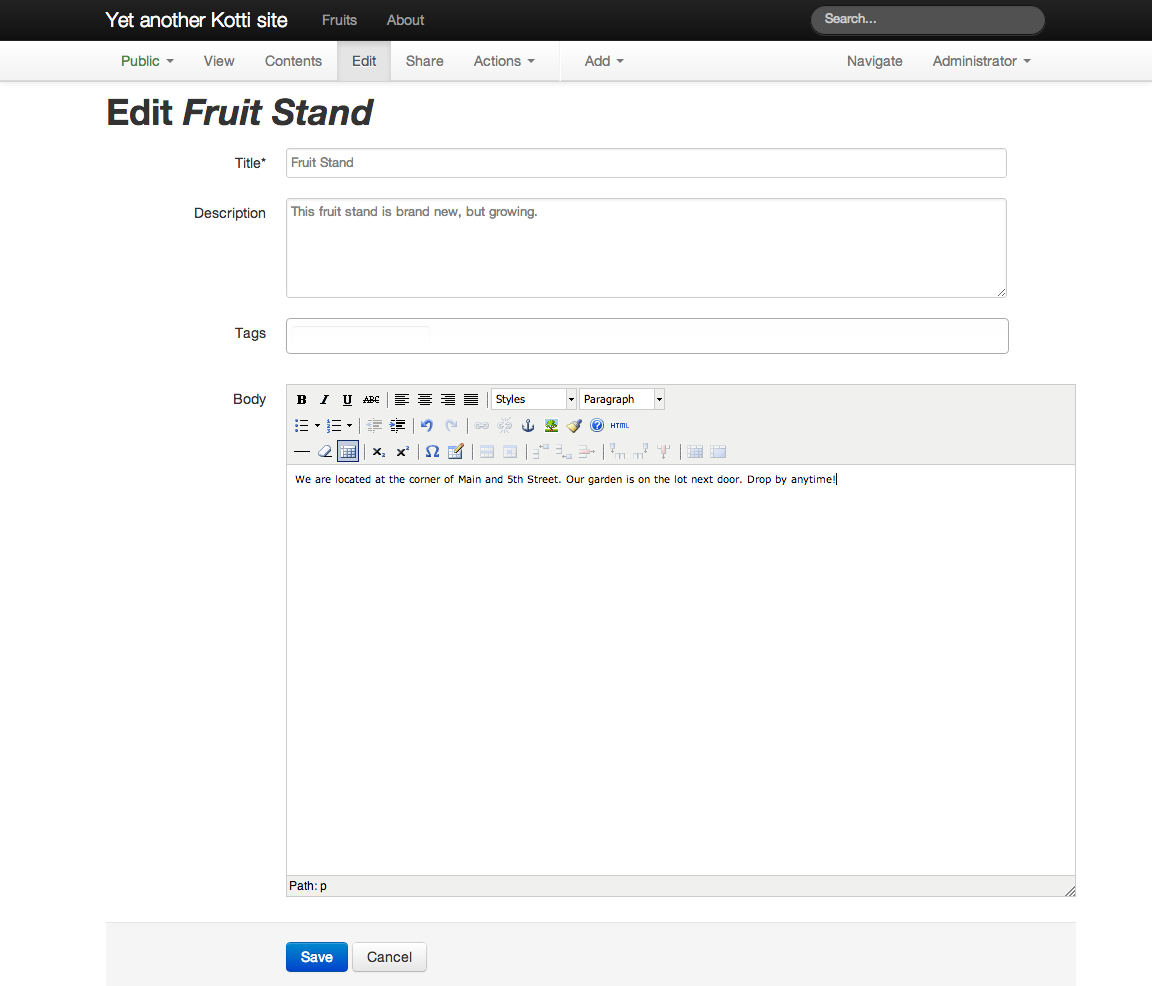
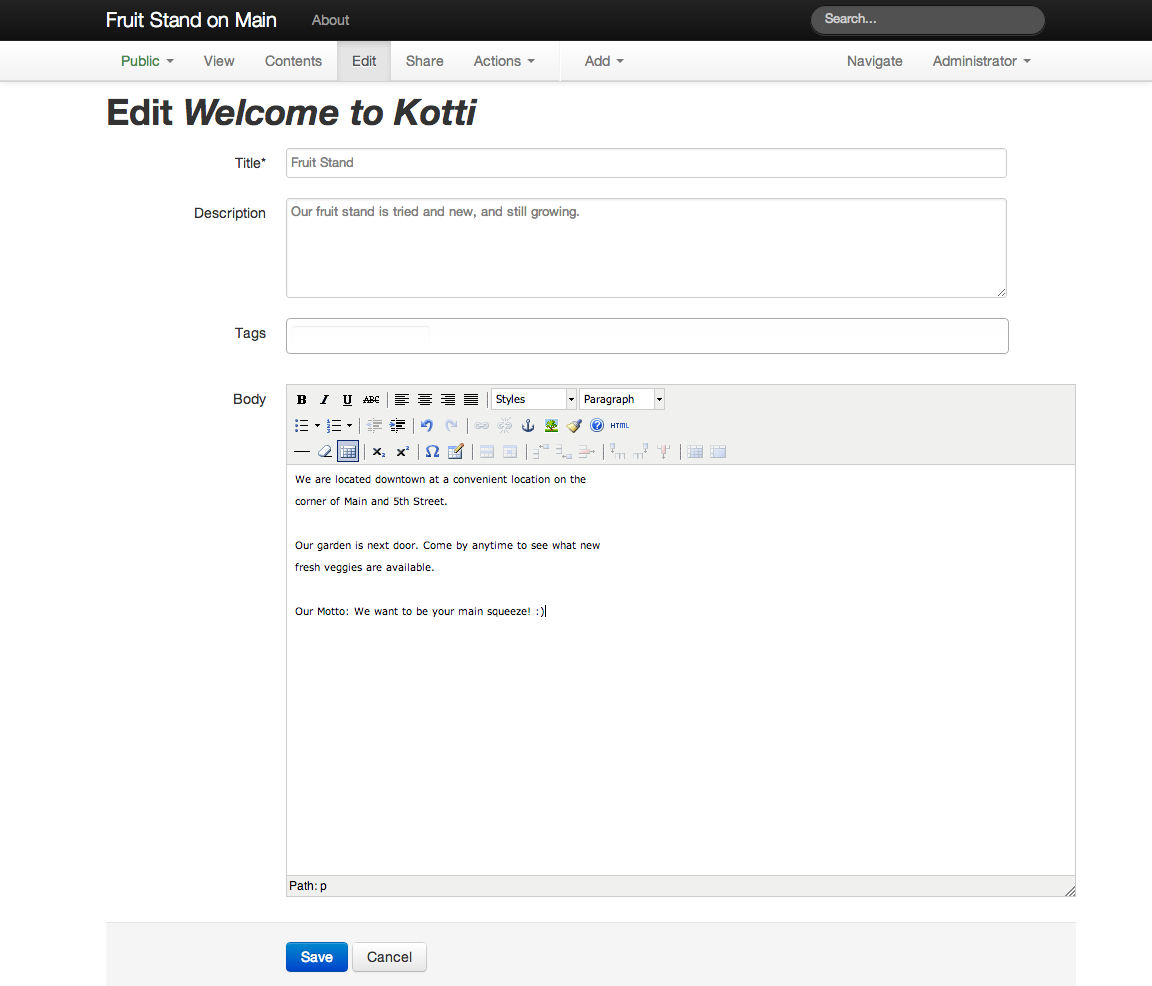
Added info and better formatting to new content. Now have site title set in app.ini.

diff --git a/scripts/kotti_capture.py b/scripts/kotti_capture.py
@@ -652,18 +652,37 @@ delete_about_document(browser)
 # This will capture: add_about_actions_menu
 #                    add_about_save
 #                    add_about_save_flash_message
+about_body = """We have many fruits available. Choose the fruit you want.
+Our normal schedule:
+
+Monday - Friday, 8 AM - 6 PM
+Saturday, 7 AM - 2 PM
+               
+Address:
+
+Fruit Stand on Main
+123 Main Street
+Somewhere, SW 01010
+
+Email: fruits@example.com
+
+Phone: +1-509-555-0100"""
 add_about_document(browser, "About",
-                   "This website is for a fruit stand.",
-                   "We have many fruits available. Choose the fruit you want.")
+                   "This website is for Fruit Stand on Main, founded 1985.",
+                   about_body)
 
 browser.find_element_by_class_name('brand').click()
 
-front_page_body = ("We are located at the corner of Main and 5th Street. Our "
-                   "garden is on the lot next door. Drop by anytime!")
+front_page_body = """We are located downtown at a convenient location on the
+corner of Main and 5th Street.
+                    
+Our garden is next door. Come by anytime to see what new
+fresh veggies are available.
 
+Our Motto: We want to be your main squeeze! :)"""
 edit_front_page(browser,
                 "Fruit Stand",
-                "This fruit stand is brand new, but growing.",
+                "Our fruit stand is tried and new, and still growing.",
                 front_page_body)
 
 # Now that we are logged in,

diff --git a/docs/introduction/overview.rst b/docs/introduction/overview.rst
@@ -44,15 +44,17 @@ in the context of the web. Documents contain text and may include images,
 files, and links to other documents.  Kotti's design makes linking documents to
 one another easy.
 
-A fresh default Kotti website looks simple enough:
+For the website associated with this user manual we will add content for a
+fruit stand. Our fresh default Kotti website looks simple enough:
 
 .. Image:: ../images/not_logged_in.png
 
-There is a header area with a toolbar, which has the site "brand" on the left
-and a Search box on the right.  There is a Welcome statement, instructions for
-logging in, configuring the site, viewing a list of available add-ons, and
-viewing documentation. The amusing footer is a signature of a software system
-called Pyramid that Kotti uses as a foundation.
+You see where the site has already been given a proper "Fruit Stand" title, in
+the header area at the left of the toolbar, which has a Search box on the
+right.  There is a Welcome statement, instructions for logging in, configuring
+the site, viewing a list of available add-ons, and viewing documentation. The
+amusing footer is a signature of a software system called Pyramid that Kotti
+uses as a foundation.
 
-All of this will change when the website is configured and initial content is
-added.
+We have the site title already, but the rest will change when we add content
+for the fruit stand.

diff --git a/docs/introduction/your_new_site.rst b/docs/introduction/your_new_site.rst
@@ -11,13 +11,11 @@ organization where you work on just one part of a large site, but as we go
 through this user manual, we'll work as if you are starting with your own new
 website.
 
-For the website associated with this user manual we will add content for a
-fruit stand.  We will replace the default "About" page with information about
-the fruit stand offerings and schedule, and we will put introductory
-information on the front page. We will add a Document called "Fruits" and to
-it we will add images of the fruits for sale.  We will tag the fruit images for
-fruit categories to which they belong.  This will be enough to demonstrate
-Kotti's main features.
+We will replace the default "About" page with information about the fruit stand
+offerings and schedule, and we will put introductory information on the front
+page. We will add a Document called "Fruits" and to it we will add images of
+the fruits for sale.  We will tag the fruit images for fruit categories to
+which they belong.  This will be enough to demonstrate Kotti's main features.
 
 For the first task, let's delete the default "About" page. We are logged in, so
 we can see it. Notice that it is in the Private state (left side of screen,
